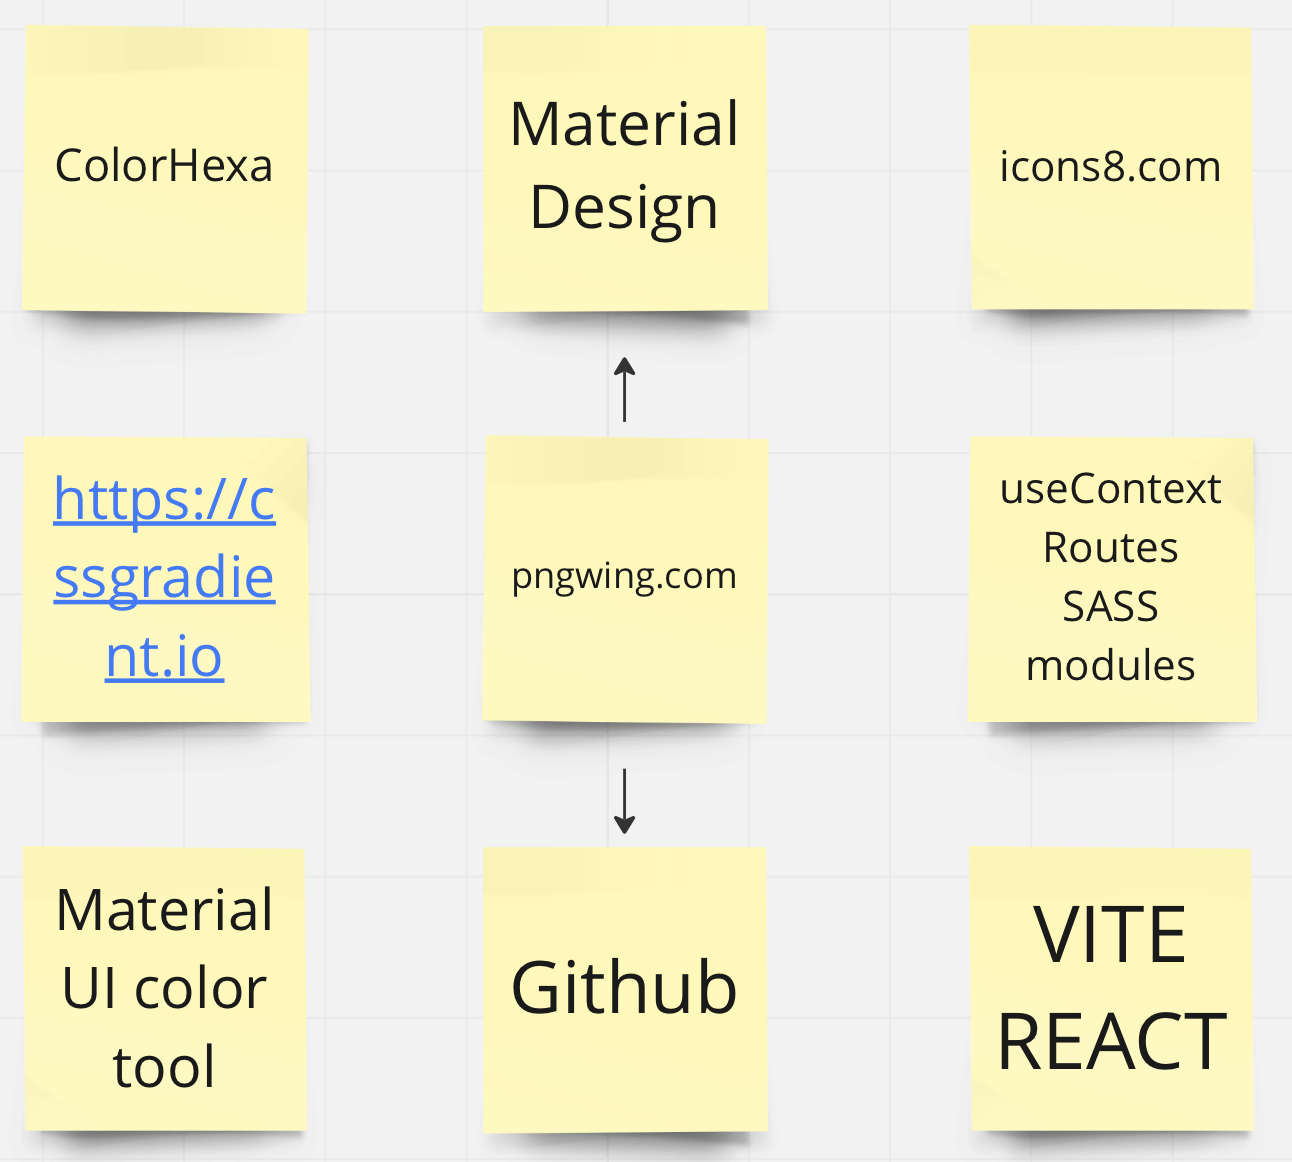
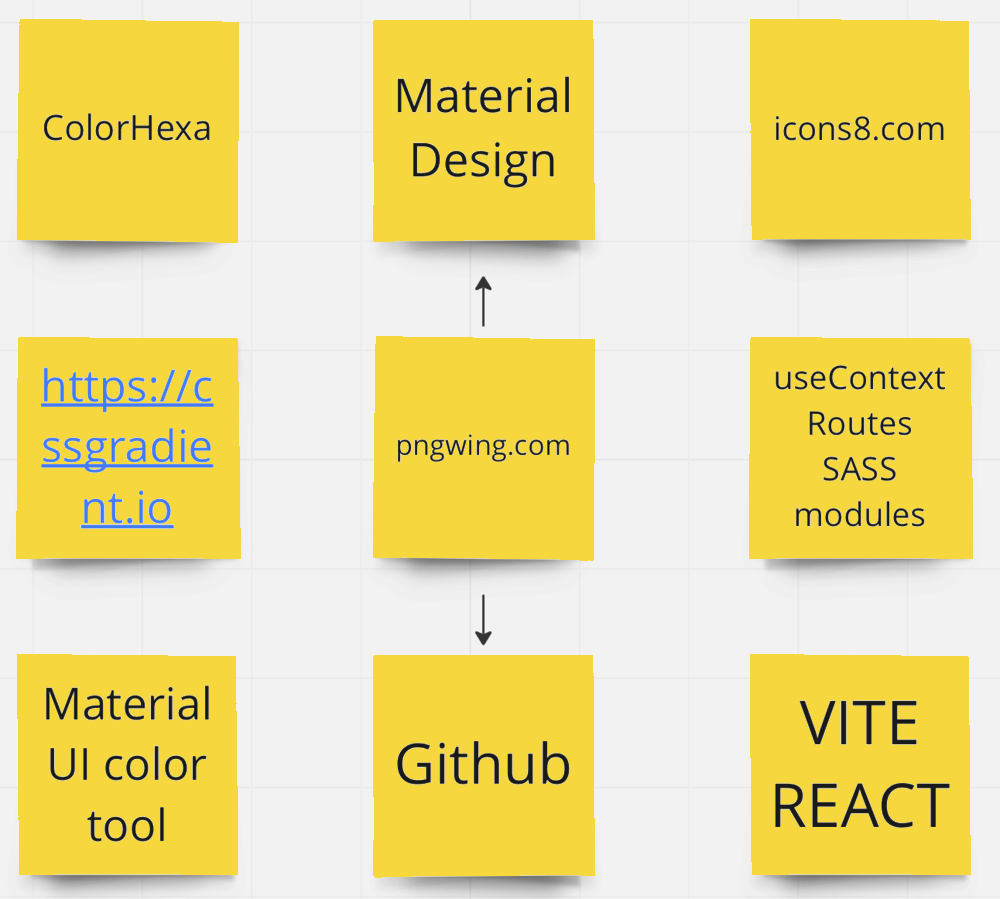
changing colours

diff --git a/src/components/HomePage/homepage.module.scss b/src/components/HomePage/homepage.module.scss
@@ -31,7 +31,7 @@ body{
                     font-size: 50px;
                     align-self: flex-start; 
                     // background: #ffeb3b;
-                    background: rgb(227,152,28)
+                    background: rgb(246,215,62)
                     // background: linear-gradient(90deg, rgba(255,235,59,1) 0%, rgba(200,185,0,1) 100%);
                 }
                 p{
@@ -40,6 +40,7 @@ body{
                     padding: 12px;
                     margin-top: 50px;
                     line-height: 25px;
+                    text-align: justify;
                 }
             }
         }
@@ -118,7 +119,7 @@ body{
                      font-size: 50px;
                      align-self: flex-start;
                     //  background: #ffeb3b;
-                     background: rgb(227,152,28);
+                     background: rgb(246,215,62);
                      // background: linear-gradient(90deg, rgba(200,185,0,1) 0%, rgba(255,235,59,1) 100%);
                      border-radius: 25px;
                      // background: linear-gradient(90deg, rgba(255,235,59,1) 0%, rgba(200,185,0,1) 100%);
@@ -132,6 +133,7 @@ body{
                      padding: 12px;
                      margin-top: 50px;
                      line-height: 25px;
+                     text-align: justify;
                  }
              }
          }
@@ -171,7 +173,7 @@ body{
                     font-size: 50px;
                     align-self: flex-start; 
                     // background: #ffeb3b;
-                    background: rgb(227,152,28)
+                    background: rgb(246,215,62)
                     // background: linear-gradient(90deg, rgba(255,235,59,1) 0%, rgba(200,185,0,1) 100%);
                 }
                 p{
@@ -180,6 +182,7 @@ body{
                     padding: 12px;
                     margin-top: 50px;
                     line-height: 25px;
+                    text-align: justify;
                 }
             }
         }
@@ -258,7 +261,7 @@ body{
                      font-size: 50px;
                      align-self: flex-start;
                     //  background: #ffeb3b;
-                     background: rgb(227,152,28);
+                     background: rgb(246,215,62);
                      // background: linear-gradient(90deg, rgba(200,185,0,1) 0%, rgba(255,235,59,1) 100%);
                      border-radius: 25px;
                      // background: linear-gradient(90deg, rgba(255,235,59,1) 0%, rgba(200,185,0,1) 100%);
@@ -272,6 +275,7 @@ body{
                      padding: 12px;
                      margin-top: 50px;
                      line-height: 25px;
+                     text-align: justify;
                  }
              }
          }
@@ -310,15 +314,20 @@ body{
                 font-size: 50px;
                 align-self: flex-start; 
                 // background: #ffeb3b;
-                background: rgb(227,152,28)
+                background: rgb(246,215,62);
                 // background: linear-gradient(90deg, rgba(255,235,59,1) 0%, rgba(200,185,0,1) 100%);
             }
             p{
                 background: #fafafa;
+                display: flex;
+                flex-flow: row wrap;
+                align-items: center;
+                justify-content: center;
                 border-radius: 25px;
-                padding: 12px;
-                margin-top: 50px;
+                padding: 10px 36px;
+                margin: 50px auto 25px auto;
                 line-height: 25px;
+                text-align: justify;
             }
         }
     }
@@ -404,27 +413,34 @@ body{
         }
         .homePageRowThreeText{
             padding: 10px;
-            margin-right: 25px;
+            margin:25px 25px 0 0;
             // box-shadow: 31px -1px 43px -1px rgba(199,199,199,1);
-            h1{
-                margin-top: 0;
-                padding: 25px;
-                font-size: 50px;
-                align-self: flex-start;
-                // background: #ffeb3b;
-                background: rgb(227,152,28);
-                // background: linear-gradient(90deg, rgba(200,185,0,1) 0%, rgba(255,235,59,1) 100%);
+            .imgParagraph{
+                display: flex;
+                background: rgb(246, 215, 62);
+                flex-flow:row nowrap ;
+                align-items: baseline;
+                justify-content: start;
                 border-radius: 25px;
+            h1{
+                margin: 25px auto 0 auto;
+                padding: 25px 0 25px 25px;
+                font-size: 50px;
+                // background: #ffeb3b;
+                // background: linear-gradient(90deg, rgba(200,185,0,1) 0%, rgba(255,235,59,1) 100%);
                 // background: linear-gradient(90deg, rgba(255,235,59,1) 0%, rgba(200,185,0,1) 100%);
-                img{
-                    width: 65px;
-                 }
+            }
+            img{
+                width: 65px;
+                padding-right: 25px;
+
+             }
             }
             p{
                 background: #fafafa;
                 border-radius: 25px;
-                padding: 12px;
-                margin-top: 50px;
+                padding: 25px;
+                margin-top: 25px;
                 line-height: 25px;
             }
         }

diff --git a/src/components/HomePage/HomePage.tsx b/src/components/HomePage/HomePage.tsx
@@ -47,18 +47,17 @@ const HomePage = () => {
       <div className={homePageStyle.homePageRowThree}>
         <img src={lastScreenshot} alt="What is lorem ipsum" />
         <div className={homePageStyle.homePageRowThreeText}>
+        <div className={homePageStyle.imgParagraph}>
+
           <h1>
-            <img src={fun} alt="fun emoji" />I am a fun weather app. What is a
-            description of weather?
+          I am a fun weather app. What is a
+            description of weather? 
           </h1>
+          <img src={fun} alt="fun emoji" />
+</div>
           <p>
-            Weather is the state of the atmosphere, including temperature,
-            atmospheric pressure, wind, humidity, precipitation, and cloud
-            cover. The daily forecast provides current, min and max temperature
-            for the location of your choice as well as humidity. wind speed and
-            direction. If you have any suggestions for improvement or
-            collaboration, check details on the contact page (I was built on 18
-            Dec 2022).
+            The app provides weather at your current location, current weather in the location of your choice and five days weather forecast split into daily and three hours slots for any location of your choice. (I was built on 27
+            Dec 2022).  © 2022 Evgenii Smazanovich
           </p>
         </div>
       </div>

diff --git a/src/components/WxFiveDays/DailyWidget/DailyWidget.module.scss b/src/components/WxFiveDays/DailyWidget/DailyWidget.module.scss
@@ -18,14 +18,14 @@
 
 
         .DailyParentCard{
-            padding: 15px;
+            padding: 10px;
             display: flex;
             flex-flow: row wrap;
             gap: 15px;
             background: rgba(199, 199, 199, 0.2);
             border-radius: 25px;
             .DayName{
-                background-color: #ffeb3b;
+                background: rgb(246, 215, 62);
                 border-radius: 25px;
                 height: 25px;
                 padding: 6px;
@@ -43,11 +43,11 @@
             margin-bottom: 20px;
             label{
                 background: rgba(255, 255, 114, 1);
-                padding: 3px;
+                padding: 0 25px;
                 border-radius: 25px;
             }
             label:hover{
-                background: #ffeb3b;
+                background: rgb(246, 215, 62);
             }
         }
     }

diff --git a/src/components/NavBar/navbar.module.scss b/src/components/NavBar/navbar.module.scss
@@ -1,8 +1,8 @@
 .NavBarContainer{
     margin: -10px;
     padding: 0 10%;
-    border-top: 25px solid #c7c7c7;
-    background: #ffeb3b;
+    // border-top: 25px solid #c7c7c7;
+    background: rgb(246,215,62);
     display: flex;
     flex-flow: row nowrap;
     justify-content: space-between;
@@ -25,7 +25,7 @@
         font-size: 25px;
         li{
              color: black;
-             background: #ffeb3b;
+             background: rgb(246,215,62);
               display: block;
               float: left;
               padding: 0 12px;
@@ -41,7 +41,7 @@
                 margin: 6px -12px;
                 font-size: 20px;
                 border: none;
-                background-color: #ffeb3b;
+                background-color: rgb(246,215,62);
                 border-radius: 25px;
                 color: none;
                 text-decoration: none;

diff --git a/src/components/DailyWeatherContainer/Input/Input.module.scss b/src/components/DailyWeatherContainer/Input/Input.module.scss
@@ -3,7 +3,7 @@
     flex-flow: row nowrap;
     justify-content: center;
     align-items: center;
-    margin: 30px 0 30px 0;
+    margin: 30px 0 30px 30px;
     padding: 0;
     form{
         display: flex;
@@ -22,7 +22,7 @@
             width: 75px;
             transition: transform 2s;
             transition: width 1s;
-            background: #ffeb3b;
+            background: rgb(246,215,62);
             border: 5px solid #c7c7c7;
             font-size: 25px;
         }
@@ -33,6 +33,8 @@
         }
     button{
         transition: transform 2s;
+        margin-left: 28px;
+        border: none;
         img{
             width: 75px;
         }

diff --git a/src/components/DailyWeatherContainer/DailyWeatherCard/DailyWeatherCard.module.scss b/src/components/DailyWeatherContainer/DailyWeatherCard/DailyWeatherCard.module.scss
@@ -16,7 +16,7 @@
             margin: 2px;
             border-radius: 25px;
             // background: rgba(255, 255, 114, 1);
-            background: rgb(227,152,28)
+            background: rgb(246,215,62);
         }
         .location{
             font-size: 20px;
@@ -27,7 +27,7 @@
         }
         h2:hover{
             // background: #ffeb3b;
-            background: rgb(227,152,28);
+            background: rgb(246,215,62);
         }
     p{
         border-radius: 25px;
@@ -40,7 +40,7 @@
     }
     p:hover{
         // background: #ffeb3b;
-        background: rgb(227,152,28)
+        background: rgb(246,215,62);
     }
 }
 .card:hover{

diff --git a/src/components/WxDaily/WxDaily.module.scss b/src/components/WxDaily/WxDaily.module.scss
@@ -19,7 +19,7 @@
         align-items: center;
         img{
             width: 40%;
-            background: #ffeb3b;
+            background: rgb(246, 215, 62);
             // border-left: solid;
             margin-left: 60%;
             padding: 15px;
